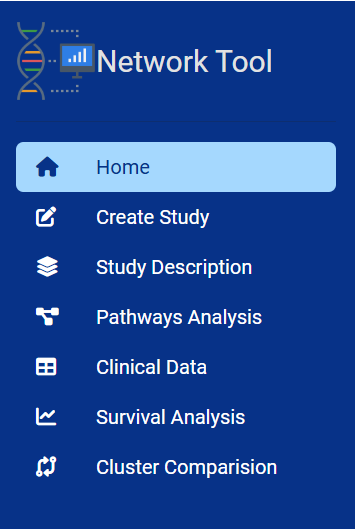
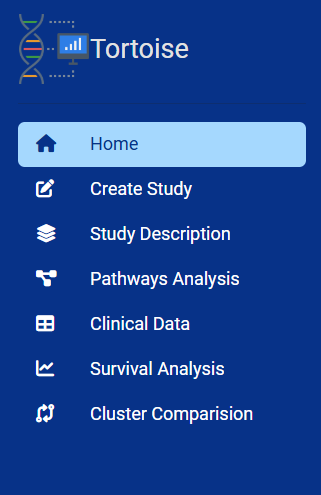
update readme

Changed region(s): [[0.0312, 0.2424, 0.9657, 0.9091], [0.0312, 0.0303, 0.7788, 0.1818]]

diff --git a/README.md b/README.md
@@ -1,4 +1,10 @@
-## TORTOISE
+# 🧬 **TORTOISE**
+ne**T**w**OR**k **T**ool f**O**r mutat**I**onal clu**S**t**E**ring
+
+<p align="center">
+  <img src="assets/tortoise.png" height=170>
+</p>
+
 
 This represents a bioinformatics tool that enables the construction of a bipartite graph from mutational data and the subsequent clustering of the constructed network. 
 The tool allows for the analysis of the identified clusters and their visualization through a dedicated dashboard.
@@ -25,8 +31,7 @@ At this point, the tortoise instance can be started by the command:
 python main.py
 ```
 
-we reccomend the creation of the study in windows or linux; being able to work in multiprocessing the estimated time is 30 seconds, without is 5 minutes
-
+⚠Conda environment is tested only in Windows and Linux. For other system, view Docker section.
 ### Docker
 
 Build docker image
@@ -47,7 +52,7 @@ If you want to mount external Study folder run
 docker run -p 8593:8593 -v local_folder:/tortoise/study --name tortoise tortoise
 ```
 
-# Dashboard Organizzation
+## Dashboard Organizzation
 <div align="center">
 <img src="./images/Pages_dashboard.png" alt = "Pages Dashboard" width=200>
 </div>
